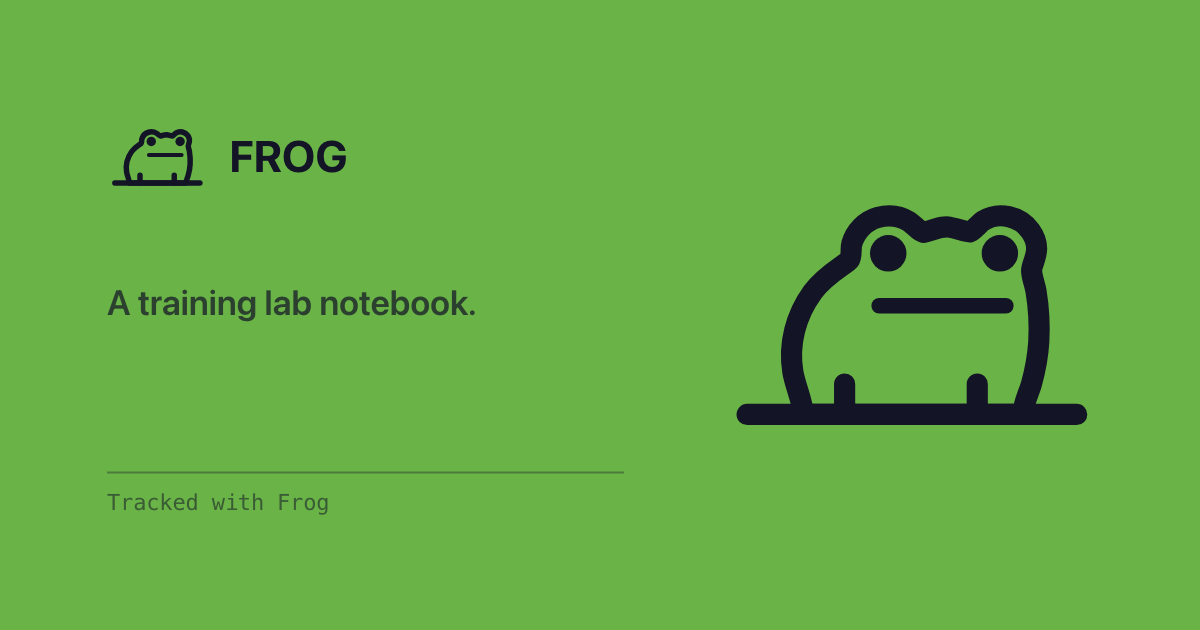
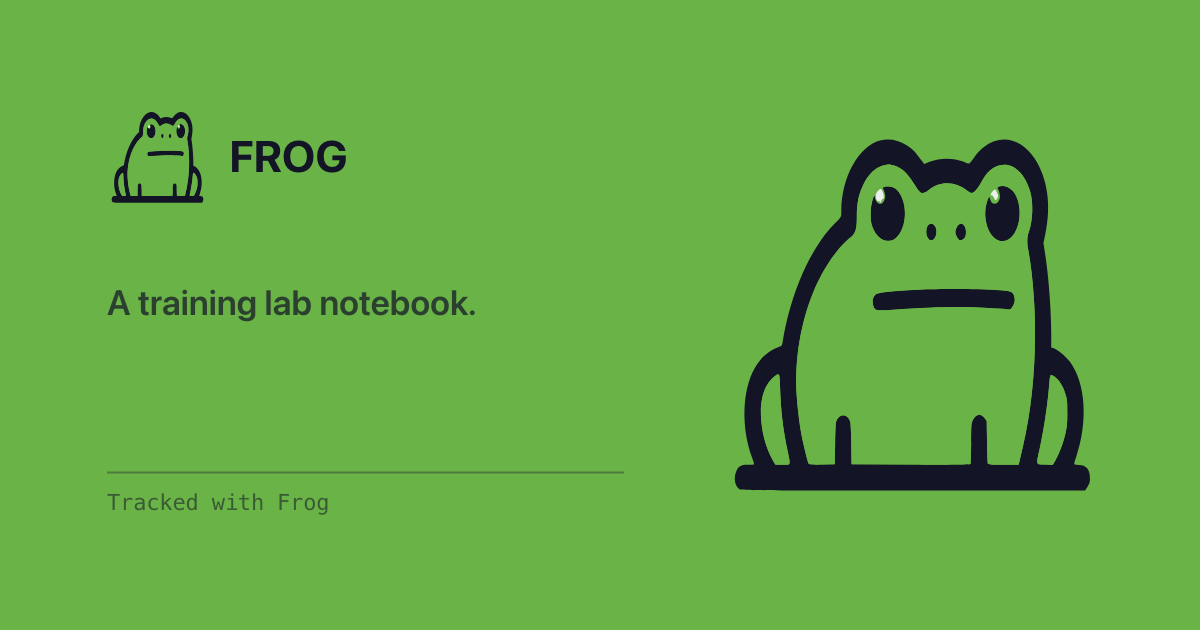
docs(brand): reconcile index.html, AGENTS.md, DECISIONS.md for the new mark
- apps/web/index.html: add the favicon-32.png old-browser <link rel=icon>
  fallback (ported from the branch); manifest.webmanifest needed no change.
- apps/web/public/og.png regenerated (bun scripts/gen-og-image.ts) since it
  rasterizes the live FrogMark component, which changed.
- AGENTS.md "Brand mark": rewritten for the new generated-icon.svg /
  potrace-vectorize-frog-mark.ts pipeline, the layer-based drift guard, and
  frog-mark.tsx's literal-geometry-reuse re-fit; drops the retired icon-cut/
  small-size-treatment material.
- docs/DECISIONS.md: new 2026-08-06 entry recording the captain's choice of
  the feat/radix-themes branch's potrace mark over main's own hand-fit
  trace, and what the port touched. Marks the 2026-07-29 (mark fidelity +
  green tile) entry SUPERSEDED for its trace/cut/small-size-treatment
  details (its green-ground-black-line-work palette call stands).

Changed region(s): [[0.6167, 0.2111, 0.925, 0.7841], [0.0925, 0.181, 0.185, 0.3317]]

diff --git a/apps/web/index.html b/apps/web/index.html
@@ -5,6 +5,7 @@
     <meta name="viewport" content="width=device-width, initial-scale=1.0" />
     <title>Frog</title>
     <link rel="icon" href="/icon.svg" type="image/svg+xml" />
+    <link rel="icon" href="/favicon-32.png" sizes="32x32" type="image/png" />
     <link rel="apple-touch-icon" href="/apple-touch-icon.png" />
     <link rel="manifest" href="/manifest.webmanifest" />
     <meta name="theme-color" content="#101211" />

diff --git a/docs/DECISIONS.md b/docs/DECISIONS.md
@@ -38,6 +38,12 @@ Terse, dated log of product/design/architecture decisions. **Rule: when a new de
 
 ## Design
 
+- **2026-08-06 (approved-branch frog mark: potrace trace, not hand-fit)** — **Captain reviewed the mark work on the stale `feat/radix-themes` branch (4 commits ahead of its 2026-07-16 branch point, otherwise 38 behind) and chose *its* mark over main's own independently-developed one** (supersedes the trace/cut/small-size-treatment details of the 2026-07-29 (mark fidelity + green tile) entry below — the green-ground-black-line-work palette call itself is unchanged). Both marks are legitimate traces of a supplied reference photo, done independently on the two branches after they diverged; the branch's is a **color-separated potrace trace** (`scripts/vectorize-frog-mark.ts`, requires the `potrace` CLI): the reference is classified into 3 flat color buckets (dark outline, green body, white eye-glint) and each traced separately, letting potrace fit clean bezier curves per layer, rather than main's least-squares cubic fit against hand-recovered stroke centrelines. Ported the asset end-state by hand, not by merging the branch (see AGENTS.md for why: 38 stale commits behind, would regress unilateral sets, the rest stopwatch, the changelog page, and more).
+  **Reference image swapped, not reused.** The branch's source lives on as `docs/brand/assets/frog-logo-reference.jpg` (added, copied verbatim from the branch) rather than main's `docs/brand/frog-source-1024.png`: that PNG is the *same* photo but flattened to exactly 3 colors as a preprocessing step for main's own retired trace, and the flatten merges the eye-highlight into the near-white background (confirmed: it has literally 3 unique RGB values, no fourth). Tracing from it silently drops the glints. `frog-source-1024.png` itself is untouched — still real provenance for the superseded entry below — just no longer the active reference.
+  **`icon.svg` and every PNG derivative are now generated output, not a hand source** — `scripts/gen-pwa-icons.ts` rebuilds `apps/web/public/icon.svg` (green `#6ab347` ground + the mark, `<g id="pad">`/`<g id="mark">`) directly from `docs/brand/assets/frog-mark.svg`, then rasterizes every PNG target from that. Main's algorithmic icon-cut (stroke-outset bbox measurement, ternary-search maskable centering, a body-crop safety assert) doesn't apply to potrace's filled, strokeless shapes, so it's replaced with straightforward center-and-pad framing: tiles scale the mark to 90% of the square on its longer axis and center it; maskable fits the mark's bounding-box diagonal inside the inner-80% safe circle (half a pixel short, for antialiasing). Added `favicon-32.png` as an old-browser `<link rel="icon">` fallback (`apps/web/index.html`) — `icon.svg` stays primary. `apps/web/public/manifest.webmanifest` needed no change.
+  **`apps/web/src/components/frog-mark.tsx` (in-app sidebar/auth mark) is re-fit to the same geometry as `icon.svg`'s mark**, not a hand-simplified redraw: same 3 filled layers (outline/body/glints), recolored `currentColor`/`var(--accent)`/a fixed light `#ECEEED` for the glints, in the mark's own `0 0 630 395` viewBox rather than main's old 24-unit box — there's no coordinate remap to get subtly wrong. This is a deliberate departure from the retired mark's philosophy ("drop fine detail below 25px, it turns to mud"): that concern was specific to *stroke* rendering going sub-pixel, and potrace's shapes are filled, not stroked, so they stay crisp at 20–32px with the full trace — verified in Chrome at both sizes, light and dark. Costs ~2.1 kB gz in the eager bundle (210.2 → 212.3 kB gz, budget 220).
+  **`scripts/check-mark-drift.ts`'s structural assumptions no longer fit the new mark** (it expected 6 named stroke paths + 6 circles + per-size stroke-width assertions, built for the retired hand-authored silhouette) **and were rewritten, not weakened**: both canonical sources (`icon.svg`, `frog-mark.tsx`) now share one shape — 3 `<g fill>` layers of `<path>`s, in document order — so the guard compares layer-by-layer path geometry plus viewBox/transform, with no stroke-width or small-size-eye assertions left to make (there's no small-size treatment to drift from). Still fails on real drift — verified by breaking a copy and confirming the script catches it. All 4 hand-copied samples in `docs/brand/frog-brand-identity.html` (app tile, 16px, in-app mark, icon-row) updated to the new geometry and markup shape; the 16px sample is now literally the same markup as the tile sample at a smaller size, since there's no separate small-size variant to show. `apps/web/public/og.png` regenerated (`bun scripts/gen-og-image.ts`) since it rasterizes the live `FrogMark` component. `apps/web/src/components/app-shell.tsx` and `apps/web/src/screens/auth.tsx` needed no changes — both already render the mark via the `FrogMark` component (main's own, unrelated evolution since the branch point), so only the component's internals changed.
+
 - **2026-07-30 (session grid shows every routine-configured set immediately, not just the one being logged)** — Bug report: start a routine with 5 sets configured on one exercise (all "6–8" reps) and the session shows exactly one editable row — "only 1 set... shows up." Confirmed end-to-end (real browser, real dev server, real local Supabase): `startRoutineSession` (`packages/core/src/repo/supabase.ts`) only ever writes `session_exercises` rows on session creation, never `set_logs` — that part is by design, not the bug (see the 2026-07-15 M2 session-slice entry, and `e2e/routines.spec.ts`'s "start routine prefills the grid" test). The actual gap: `ExerciseBlock` (`apps/web/src/screens/session.tsx`) rendered exactly one `ActiveRow`, seeded per index from the routine template as `block.committed.length` advances, with **no rendering at all for the sets that hadn't become active yet** — so a freshly started session showed "0 sets" and one input box even though 5 were configured, and the other 4 only appeared one at a time as each prior set was logged. Nothing was lost (logging through sequentially does write all 5 correctly), but the routine's own plan was invisible until you'd already stepped through it. **Fix is additive, not architectural**: a new read-only `UpcomingRow` renders `seedSets.slice(activeIndex + 1)` — the remaining routine/copy-seed targets — as muted preview rows (`upcoming-{index}[-{col}]` test ids) below the active row, so all N configured sets are on screen the instant the session starts and the list shrinks by one each time a set commits. The single-active-row **commit mechanic is unchanged** (still the only way real `set_logs` rows get written — no schema change, no eager materialization). **Rejected**: eagerly writing all N `set_logs` rows at session-creation time with a planned-vs-performed flag — a `set_logs` semantics change touching ~10+ read call sites (records/PRs, delete-cascade, session-reducer) for what reads as a purely visual gap; that's a bigger, separately-sequenced call, and it overlaps the routine-builder RIR-range/add-set-with-inherited-range revamp being scoped in parallel — noted for whoever sequences that follow-up, not bundled into this fix. e2e: new "materializes every configured set as a visible row" case added to `e2e/routines.spec.ts`.
 - **2026-07-31 (rest timer → rest stopwatch, reversing PR #11)** — **The countdown is gone: rest is now a per-block up-counting stopwatch, no target, no preset, no done-state.** This is a full reversal of PR #11 (`rest-timer-q2`, `143dd04`, logged below as "rest timer is its own control") six commits after it shipped — deliberately logged as a **new** entry rather than editing that one, so the "why we built it, then why we undid it" trail stays legible (the target/countdown model was a real, considered design with its own measurements and rationale; it wasn't wrong, the brief that drove this reversal just no longer wants a target). **What's the same:** the trigger point — a set is logged — and the drop-set suppression rule (`shouldStartRest`; a completed set whose next sibling is a drop starts nothing, since drops chain into the next reduction with no rest by definition, not an artifact of countdown math). **The trigger is NARROWED → 2026-08-04 (rest stopwatch scoped to normal working sets on rep/weight exercises), below** — drop suppression is unchanged, but it is no longer the *only* suppression. **What's different:** no target to set means `RestControl`'s popover (`REST_PRESETS`, the 3×2 grid) is gone — it's now a passive header badge that just goes accent while that block's own stopwatch is running (still useful in a superset, where more than one block can be resting at once even though the dock only shows the most recent; **which block headers render it at all is NARROWED by the 2026-08-04 entry**). **Which stopwatches survive is scoped to the superset group of whichever block just committed**: every `commitSet` first prunes `restByBlock` down to the committing block's same-superset-group siblings (two blocks are siblings only when both carry a non-null `supersetGroup` and those values are equal — two *solo* blocks are not siblings), then re-adds the committing block itself only when the start isn't drop-suppressed. So alternating within an active superset preserves each member's own stopwatch, while starting or continuing a **solo** block's stopwatch clears every other running one, including other solo blocks' — otherwise `restByBlock` accumulated one entry per exercise touched for the whole session and the dock's single **Stop** would resurface a timer you'd stopped watching an hour ago. The prune runs on *every* commit, not just the ones that start a stopwatch, so a drop-suppressed commit clears the previous exercise's stopwatch too; a **self**-suppressed drop commit therefore clears the committing block's own stopwatch rather than merely withholding a new one — "drops chain with no rest" applies uniformly to starting *and* to continuing. `RestDock` drops the drain rail, the ±15s adjust, and the accent-flood done-state — a stopwatch that never finishes has nothing to animate toward — and gets a single **Stop** button (the old dismiss/"skip rest" `X`, relabeled) in their place. **Test-id contract, superseding the frozen entry below** (which still lists these as unchanged): `rest-{name}`/`-value` and the header badge `block-{name}-rest-timer` survive; the dock's `-dismiss` is now **`-stop`**; `-plus`/`-minus` and the preset ids `block-{name}-rest-{sec|off}` are gone with the controls they named. **Removing a block is the third `restByBlock` boundary** alongside commit-prune and Stop: `removeBlock` clears the removed block's entry, and the dock picks the newest stopwatch whose block *still exists* rather than bailing to nothing on the newest — otherwise deleting a resting superset member took the dock (and its only Stop) down with it while the sibling kept running. Implementation-wise this is a straight extension of the existing per-session `RestTimer` header chip's up-counting pattern (`since` timestamp, tick every second, no target) down to per-block scope, not a new mechanism — `domain/rest-timer.ts`'s `RestTimerState` shrinks to `{ startedAt }` and `restRemainingSec`/`restDone`/`adjustRest` are deleted outright; `startRest`/`shouldStartRest` survive with their target argument dropped. **Nullable-add-don't-drop, same as always:** `routine_exercises.restSec`/`session_exercises.restSec`/`user_prefs.defaultRestSec` stay in the schema — the app just stops reading and writing them for timer purposes — and `set_logs.restSec` (the *measured* elapsed-time-since-previous-set column, written automatically on every commit regardless of any UI) is untouched; it already meant exactly what a stopwatch produces. **Removed outright, not just hidden:** Settings → Workouts' "Default rest timer" row (nothing left to configure); the volume slider + Test button (its own copy claimed to gate "rest-timer and PR blip" but no PR-blip call site has ever existed — `playRestBlip`/`useRestSoundVolume` had exactly one real caller, rest-done, which no longer exists); `supabase/functions/send-rest-push`, already flagged dead in the entry below ("nothing in the app invokes it") and now permanently so. **Kept, copy-only pass:** the Notifications section's permission-request and background-push toggle are generic browser mechanisms with no other current use, but deleting working push-subscription infrastructure wasn't asked for. Its copy now says what is actually true: with `alertRestDone` and `send-rest-push` both gone there is **no producer at all**, so "Send test" is the only notification the app can post and the push toggle only registers the device for a sender that doesn't exist yet. Generic "notifications" wording would have read as a live feature and quietly broadened the promise the deleted rest alert used to make — dormant infrastructure has to say it's dormant. `rest-timer-icon.tsx`'s pause-bar glyph is dropped (a paused-countdown motif no longer fits) but the file and its ring/crown/stem stay — a plain stopwatch mark, still distinct from lucide's own `Timer` (already meaning the *set-duration* stopwatch in this app) and `Pause` (the session pause). e2e: `e2e/rest-timer.spec.ts` rewritten — appears on commit, ticks up with no upper bound asserted, Stop dismisses it, suppressed after a set followed by a drop.
 - **2026-08-04 (rest stopwatch scoped to normal working sets on rep/weight exercises)** — Narrows the trigger from the entry above, which fired on *every* non-drop commit — including warm-ups and duration/distance exercises, with no way to turn it off. `shouldStartRest` (`domain/rest-timer.ts`) now takes the **committed** set's type and the **exercise** type alongside the next set's type, and suppresses on two more grounds: the committed set was a **warm-up** (a ramp-up set runs into the working set; that gap isn't rest you're timing), or the exercise type has no reps field — `duration`, `weight_duration`, `distance_duration`, `weight_distance` — where "resting between sets" isn't a meaningful concept for a plank or a run. The type test reuses **`supportsEffort()`** (`domain/exercise-types.ts`, = `TYPE_FIELDS[type].reps`) instead of re-deriving the field check, so "types that log effort" and "types that rest" stay one predicate rather than two that can drift. **No opt-out setting was added**: the exclusions express the requirement on their own, so 2026-07-31's removal of Settings → Workouts' "Default rest timer" row stands — there is still nothing to configure. `RestControl` is rendered only when `supportsEffort(type)` (`session.tsx`), so a duration/distance block carries **no `block-{name}-rest-timer` badge at all** rather than one that could never light up. Everything else is untouched: the superset prune, the drop rule, `set_logs.rest_sec` measurement (still written on every commit regardless of whether a stopwatch ran), and every test id. Unit tests live in `domain/plates.test.ts` (the existing home for this domain's tests); e2e: two cases added to `e2e/rest-timer.spec.ts` — a warm-up commit starts nothing while the working set after it does, and a duration exercise both suppresses the stopwatch and hides the badge.
@@ -49,7 +55,7 @@ Terse, dated log of product/design/architecture decisions. **Rule: when a new de
   **Consistency-card floating-text bug**: `components/streak-card.tsx` rendered the weeks number/label and the rest-days text as two flex siblings in a `justify-between` row, vertically centered against each other independently — fine at the card's full width (Home, Calendar), but at Profile's half-width (`grid-cols-2`) the rest-days span visually detached from "week" instead of reading as one phrase. Fixed by folding rest-days into the same `flex flex-wrap items-baseline` paragraph as the weeks number, so it wraps inline under load instead of floating as a separate box — one component, so the fix applies everywhere it's used.
   **Share card redesign** (`components/share-card.tsx`) — **SUPERSEDED → 2026-07-30 (share system redesign)**: the single-template/dark-light-transparent architecture below is replaced by six typed card kinds across four frames and four grounds; the token-sampling technique, the mark-rasterization technique, and `frog-tagline.ts` all carry forward into the new files (the tagline's tone bank widened — see that entry). Captain flagged it for marketing use, so treated as a real deliverable, not a placeholder. Colors are no longer a hand-picked hex palette (which had drifted from the real tokens — e.g. dark hairline was `#2e3130` against the actual `--sage-6` dark of `#373b39`); they're sampled at render time from the live Radix scales via a detached, temporarily `.light`/`.dark`-classed DOM node (Radix's scale CSS keys off a flat class, not `:root`, so this resolves the *requested* variant's tokens regardless of the page's current theme). The brand mark is drawn from the **same `FrogMark` component** the rest of the app uses — never another hand-copy of its path geometry (AGENTS.md "Brand mark" tracks the copies that do exist) — by mounting it into a detached host via `react-dom/client` + `flushSync`, reading the committed `<svg>` back with the native `XMLSerializer`, and rasterizing that into an `<img>` for `drawImage`. First cut used `react-dom/server`'s `renderToStaticMarkup` instead, which is the more obvious API for "component → string" — but it added **~61 kB gz** to the (lazy) share-card chunk, since `react-dom/server` duplicates a large slice of react-dom's rendering logic instead of reusing the client renderer already loaded for the whole app; the `createRoot`+`flushSync` route reuses code already paid for and the chunk landed *smaller* than before the mark was added (3.62 kB gz vs. the old 5.87 kB text-only version). Stat values render in the same mono stack as the app's `.num` utility (`ui-monospace`/`SF Mono`/`Berkeley Mono`) since canvas text can't apply `font-variant-numeric: tabular-nums` — a fixed-width family gets the same aligned-digits result. **Frog-sass tagline**: `lib/frog-tagline.ts`, a template × word-bank generator (4 sentence templates × ~7 adjectives × 8 nouns ≈ 250+ combinations from ~70 lines) rather than hand-authoring variants, picked with one `Math.random()` per share (cosmetic caption, no rigor needed). Tone (`strong` vs `normal` adjective bank) keys off the one session-quality signal that already exists in the data — whether a PR landed this session (`post-save-summary.tsx`'s `prLines`) — rather than inventing a new "workout quality" score just for a caption; sessions without a PR get the everyday bank, not a fabricated "rough" one, since no honest negative signal exists yet.
   *`data/backlog.md` (referenced in the brief for prior art `og-image-p6`/`frog-icons-m2`/`frog-fidelity-n6`) does not exist anywhere in this repo's history — the redesign above was done from AGENTS.md, this file, and the current share-card/frog-mark code directly.*
-- **2026-07-29 (mark fidelity + green tile)** — **The mark is now a *trace* of the supplied art, on a green ground with black line work** (supersedes the “redrawn as hand-authored vector, never traced” and the palette clauses of the 2026-07-28 mark entry below; the icon cut above is unchanged). Two captain calls. **(1) Fidelity.** The hand-authored redraw had drifted from the art we were given — wrong eye size and placement, no glints, a symmetric silhouette where the source is visibly not. The mark is now fitted to the bitmap instead of drawn by eye: the reference lives in the repo as `docs/brand/frog-source-1024.png` (the supplied PNG flattened to its three colours — the flatten touches the JPEG-noise background only, 99.9% of pixels keep their class), stroke centrelines are recovered by eroding the silhouette half a stroke width, and the outline is least-squares cubic-fitted to those centrelines (body 16 segments, each haunch 5). Rendered back over the reference at its own scale, **silhouette IoU 0.991, line-work IoU 0.946** — residual is a 1–2 px antialiasing fringe. Recovered facts the redraw missed: the head bulges into a **hump over each eye** with a low crown between them; eyes are r 27.5 at (248, 76)/(433, 76) with a **light glint** up-left of each centre; the face sits ~50 units **right** of the body's own centre (the source is asymmetric — kept, not “corrected”); stroke weights are 26 (outline, haunches, feet, ground bar) and 19 (mouth), so the feet no longer carry their own weight. Art space is now 572 × 355.5, 1:1 with the reference bitmap's pixels, which moves the derived cut from 471 to **469.1** and `#pad` to `translate(-58.4 96.7)`; fill is unchanged at **100% / 76%** and the maskable still clears the safe circle (202.9 px against 204.8). **(2) Green ground, black frog.** The tile inverts: ground **`#6AB347`**, line work **`#131426`** — both sampled out of the reference, so “black outline” and “copy my image exactly” are the same value. True `#000000` buys 8.1:1 contrast against 7.1:1 and was rejected as not worth leaving the source palette. The body carries the **same green as the ground** (the ask was “just a black outline of the frog”), so the tile is line art and only the outline separates body from field; a body in a slightly distinct green was shown as an alternative and not shipped. **The manifest stays on lab ink `#101211`** for `background_color`/`theme_color`: those paint the PWA splash and the browser chrome, which belong to the app shell — turning them green would restyle the app, and a green tile on a lab-ink splash is the same accent-on-ink relationship the app already has. **The small-size treatment needed a new rule.** With the polarity flipped, the eyes are dark under a brow that is also dark, so thickening the outline below 25px simply swallows them — verified at 16/20/24px, a dark eye is invisible at every weight tried. Under 25px the **eye collapses to its glint**: light `#ECEEED`, r 26, dropped to cy 84, clear of the brow. Stroke goes to 36/26 (was 40/36/26). **The in-app mark (`frog-mark.tsx`) is the same body path**, mapped into the 24-unit box by ×0.0370879 and centred, still `currentColor` + `var(--accent)` so it survives both themes — it is the one place the mark is *not* the tile's fixed black-on-green. Its strokes drop 1.75 → **1.3/0.95**: at 1.75 the eye humps close over the eyes and the crown between them fills in, which the old blunter silhouette tolerated and this one does not. Eager JS 208.0 → **208.2 kB gz** (budget 220) — the traced body path is 16 cubics against the old 5 arcs.
+- **2026-07-29 (mark fidelity + green tile)** — **SUPERSEDED → 2026-08-06 (approved-branch frog mark), above** — the hand-fit trace-and-cubic-fit methodology, the `docs/brand/frog-source-1024.png` reference, the algorithmic icon-cut window, and the small-size stroke treatment described below are all replaced by a color-separated potrace trace of a different reference image; the green-ground-black-line-work palette call carries forward unchanged (the new mark samples the same convention off its own reference). Kept unedited below for the why-built trail. **The mark is now a *trace* of the supplied art, on a green ground with black line work** (supersedes the “redrawn as hand-authored vector, never traced” and the palette clauses of the 2026-07-28 mark entry below; the icon cut above is unchanged). Two captain calls. **(1) Fidelity.** The hand-authored redraw had drifted from the art we were given — wrong eye size and placement, no glints, a symmetric silhouette where the source is visibly not. The mark is now fitted to the bitmap instead of drawn by eye: the reference lives in the repo as `docs/brand/frog-source-1024.png` (the supplied PNG flattened to its three colours — the flatten touches the JPEG-noise background only, 99.9% of pixels keep their class), stroke centrelines are recovered by eroding the silhouette half a stroke width, and the outline is least-squares cubic-fitted to those centrelines (body 16 segments, each haunch 5). Rendered back over the reference at its own scale, **silhouette IoU 0.991, line-work IoU 0.946** — residual is a 1–2 px antialiasing fringe. Recovered facts the redraw missed: the head bulges into a **hump over each eye** with a low crown between them; eyes are r 27.5 at (248, 76)/(433, 76) with a **light glint** up-left of each centre; the face sits ~50 units **right** of the body's own centre (the source is asymmetric — kept, not “corrected”); stroke weights are 26 (outline, haunches, feet, ground bar) and 19 (mouth), so the feet no longer carry their own weight. Art space is now 572 × 355.5, 1:1 with the reference bitmap's pixels, which moves the derived cut from 471 to **469.1** and `#pad` to `translate(-58.4 96.7)`; fill is unchanged at **100% / 76%** and the maskable still clears the safe circle (202.9 px against 204.8). **(2) Green ground, black frog.** The tile inverts: ground **`#6AB347`**, line work **`#131426`** — both sampled out of the reference, so “black outline” and “copy my image exactly” are the same value. True `#000000` buys 8.1:1 contrast against 7.1:1 and was rejected as not worth leaving the source palette. The body carries the **same green as the ground** (the ask was “just a black outline of the frog”), so the tile is line art and only the outline separates body from field; a body in a slightly distinct green was shown as an alternative and not shipped. **The manifest stays on lab ink `#101211`** for `background_color`/`theme_color`: those paint the PWA splash and the browser chrome, which belong to the app shell — turning them green would restyle the app, and a green tile on a lab-ink splash is the same accent-on-ink relationship the app already has. **The small-size treatment needed a new rule.** With the polarity flipped, the eyes are dark under a brow that is also dark, so thickening the outline below 25px simply swallows them — verified at 16/20/24px, a dark eye is invisible at every weight tried. Under 25px the **eye collapses to its glint**: light `#ECEEED`, r 26, dropped to cy 84, clear of the brow. Stroke goes to 36/26 (was 40/36/26). **The in-app mark (`frog-mark.tsx`) is the same body path**, mapped into the 24-unit box by ×0.0370879 and centred, still `currentColor` + `var(--accent)` so it survives both themes — it is the one place the mark is *not* the tile's fixed black-on-green. Its strokes drop 1.75 → **1.3/0.95**: at 1.75 the eye humps close over the eyes and the crown between them fills in, which the old blunter silhouette tolerated and this one does not. Eager JS 208.0 → **208.2 kB gz** (budget 220) — the traced body path is 16 cubics against the old 5 arcs.
 - **2026-07-28 (icon cut)** — **The app tiles ship an icon cut of the mark, not the whole mark** (supersedes the padding clause of the mark entry below). On a real iOS home screen the frog occupied a patch in the middle of the tile: measured, the mark was 80% wide but only **50% tall**, with top/bottom margins ~2.5× the sides. That is inherent — the mark is **1.6:1** (573 × 357), so scaling the whole thing up cannot fix it, and distorting it is not an option. An app-icon crop is routinely tighter than the full brand mark, so `apple-touch-icon` / `icon-192` / `icon-512` (and `icon.svg` itself, so the favicon and the manifest's SVG icon match) now render a **471-unit square window on the head + body**, bottom-anchored: the body — the one part that must never be cropped — fills **93%** of the tile width, the haunches, feet and **ground bar run off the left and right edges**, and the bar sits 3.5% above the bottom edge. Measured after: **100% / 76%** (100% because the bar bleeds by design). A bleeding ground line reads deliberate; a floating one reads like a mistake. **The maskable is the exception and keeps the whole mark** — platforms crop it to an arbitrary shape and only the inner-80% circle is guaranteed, so nothing may bleed. It is scaled until its farthest painted point lands on that circle (walked off the real outlines, not the bounding box, whose corners are empty): **71% / 44%**, up from 65.6% / 41%, with the mark lifted 3% of the tile because the ground bar's end caps are what actually reach furthest. Lifting it all the way to the minimal-enclosing-circle centre would reach 78% but floats the frog 13% high, which a launcher showing a near-full square reads as top-heavy. Farthest painted pixel measures 203.5 px against the 204.8 px safe radius (`SAFE_R` is 0.396, not 0.4, so antialiasing on the outermost stroke can't rasterise past the boundary). **Both windows are derived, not hand-copied**: `scripts/gen-pwa-icons.ts` measures the mark's boxes off the live SVG (`#body` is tagged for exactly this) and computes the cut, so editing the frog moves the cut with it — and it **asserts** `icon.svg`'s own `viewBox`/`#pad` translate still match, printing the replacements if they don't, because those are the last hand-authored framing numbers. It imports `@playwright/test` rather than `playwright`, which is not a declared dependency and does not resolve.
 - **2026-07-28** — **The frog-eye mark is retired for a literal frog mark** (`docs/brand/frog-brand-identity.html` → "The mark"). A frog seen head-on sitting on a ground line: rounded body, two eye humps, dot eyes, nostrils, a flat mouth, front feet, haunches. **Redrawn as hand-authored vector, never traced** — the supplied raster is RGB with *no* alpha and a JPEG-noise background, so keying it leaves speckle in the field and a halo on the outline. `apps/web/public/icon.svg` is the single source of the shipped geometry; every PNG in `apps/web/public/` is rendered from it by `bun scripts/gen-pwa-icons.ts` (never hand-edit them). Drawn in the brand palette — grass `#46A758` + ink `#101211` — **not** the source art's off-palette `#6AB347`/`#131426`. **The tile ships on the lab-ink ground `#101211`**, matching the manifest's existing `background_color`/`theme_color` so it doesn't clash inside the dark shell; on that ground the line work inverts to sage `#ECEEED` and the eye glints go dark — ground and line work move together, flipping one alone makes the frog a floating blob. ~~Padding is per target: ~9% margin on `icon.svg` and `icon-192/512`; 10% on `apple-touch-icon`; 65.6% of the tile on the maskable~~ **SUPERSEDED → 2026-07-28 (icon cut)** — centring the whole 1.6:1 mark is what made it read as floating. Still true: `apple-touch-icon` is exactly 180×180 and fully opaque with **no** baked corner radius (iOS discards alpha, composites on black, and rounds its own corners). `icon.svg` carries an `@media (max-width: 24px)` **small-size treatment** — below 25px the 27-unit outline falls under a pixel and the fine detail hazes over, so it drops the nostrils and glints and thickens every stroke (~~and scales 1.17 to spend the margin on the frog~~ — the icon cut spends it, so the scale is gone); verified in Chrome, and renderers that ignore it fall back to the full mark. The in-app mark is a **separate simplified cut**, `apps/web/src/components/frog-mark.tsx` — no haunches/nostrils/glints, and it keeps `currentColor` + `var(--accent)` rather than fixed hex so it survives both themes; it stays inline vector for the 220 kB gz budget.
 - **2026-07-16** — **Frog re-skin + rebrand (`docs/brand/frog-brand-identity.html`).** `APP_NAME` = **"Frog"** (single-source mechanism kept; ~~technical identifiers `@sbl/*` / `SBL_TOKEN` deliberately unchanged — renaming them is an API break with no user-facing value~~ **SUPERSEDED → 2026-07-28 (identifier layer renamed)**). Theme props: `<Theme accentColor="grass" grayColor="sage" radius="none">` — green-cool lab-ink neutrals + one frog-green accent that **doubles as semantic success** (`--pos` = `grass-11`; `green.css` dropped → 5 scales: sage/grass/red/amber/orange). Radius restored to **0px** (deliberate reversal of the 2026-07-15 `small` call — brutalist 0px is load-bearing for the lab/terminal soul; circles only for avatars ~~+ the frog-eye mark~~ **SUPERSEDED → 2026-07-28 (literal frog mark)**; fallback if mobile tap-feel regresses: `small` on interactive controls only). **The split rule** governs all copy/mascot use: the closer to the data the more serious (logging hot path, charts, findings statistics/confidence/caveat = sacred, never goofy); the closer to the edges the more the frog (empty states, loading, toasts, errors, PR banners, streaks, notifications, 404, settings corners). **Language registers Human/Frog/Ultrafrog** (`apps/web/src/lib/voice.ts`: `useVoice().t(human, frog)` in components, `voice()` outside render; localStorage `voiceRegister`, default `frog`): a pure render-time text transform — changes how the app *talks*, never what it *reports*; `ultra` ribbits every word but preserves digit-bearing tokens + a unit whitelist; Human is the accessibility escape hatch and future i18n seam. New catch-all 404 route (`screens/not-found.tsx`). ~~Frog-eye mark (circle + eyelid arc + grass pupil) in the shell brand slot + `icon.svg`~~ **SUPERSEDED → 2026-07-28 (literal frog mark)**; PWA manifest + `theme-color` → `#101211` (sage-1 dark).

diff --git a/AGENTS.md b/AGENTS.md
@@ -85,7 +85,7 @@ Local Supabase is the default for all dev and tests; the hosted project exists o
 
 **Frog** (see `docs/brand/frog-brand-identity.html` — the brand spec — and `docs/DECISIONS.md` 2026-07-16): a Radix Themes 3 re-skin. `<Theme accentColor="grass" grayColor="sage" radius="none">` in `app.tsx` is the single source of look-and-feel; `apps/web/src/styles/theme.css` bridges legacy Tailwind tokens onto the Radix scales. Green-cool lab-ink neutrals (sage), one frog-green accent (grass) that **doubles as semantic success**; red/amber survive as small text/icons only (never large fills). **0 px border radius** (square/brutalist; circles only for avatars and inside the frog mark). Crisp 1 px low-contrast borders, flat surfaces (shadows only on floating layers). **The split rule:** the closer to the data the more serious — logging hot path, charts, findings statistics are sacred and never goofy; the frog voice lives only at the edges (empty states, loading, toasts, errors, PR banners, 404, settings corners). Copy in playground zones routes through the language registers (`apps/web/src/lib/voice.ts`: Human / Frog / Ultrafrog — a render-time text transform that never changes what is reported). Keyboard-first: ⌘K command palette, single-key shortcuts on the logging path. All numeric data (weights, reps, e1RM, timers) uses tabular numerals (`.num` utility) and is never inside a joke. Micro-interactions are 100–150 ms CSS transitions; nothing animates on the data path.
 
-**Brand mark.** `apps/web/public/icon.svg` is the single source for the shipped assets: every PNG in `apps/web/public/` is a render of it via `bun scripts/gen-pwa-icons.ts` (re-run after any edit; never hand-edit a PNG). **The vector is a trace of the supplied art**, kept in the repo as `docs/brand/frog-source-1024.png` — the geometry was fitted to that bitmap, not drawn by eye, because an earlier hand-authored redraw drifted from what we were given. If the mark changes, re-fit against the reference and check the render over it; don't nudge control points. Its geometry is **hand-copied in four places**, all in the brand spec — the app-tile sample, the 16px sample, the standalone in-app-mark sample, and the icon-row copy — and `bun scripts/check-mark-drift.ts` (wired into CI) asserts those four still match the source each was copied from: `icon.svg` for the tile/16px pair, `apps/web/src/components/frog-mark.tsx` for the in-app-mark pair. **The guard stops there — it does not verify `frog-mark.tsx` itself**, which is a hand-fitted simplification of `icon.svg` (body path re-mapped into a 24-unit box, haunches/nostrils/glints dropped), so its numbers legitimately differ and no script can check that hop: change `icon.svg` and you must still re-map `frog-mark.tsx` by hand, then re-run the guard. **The tiles show an *icon cut*, not the whole mark** — a square window on the head + body with the haunches, feet and ground bar bleeding off the sides, because the mark is 1.6:1 and centring all of it leaves the frog floating (see `docs/DECISIONS.md` → "icon cut"). The generator derives that window from the mark's measured geometry, so it follows the frog; it also asserts `icon.svg`'s own `viewBox` and `#pad` translate still match, and prints the replacements if they don't — that assert firing is the expected way to learn the cut moved. The tile is **black line work `#131426` on the source art's grass green `#6AB347`**, body the same green as the ground — **ground and line work move together**; flipping one alone breaks the mark (`GROUND` in the generator must match the `#ground` fill in `icon.svg`). Below 25px `icon.svg` swaps in a small-size treatment, including light eyes — a dark eye under a dark brow is invisible at that size. The in-app mark is a separate simplified cut and must stay `currentColor` + `var(--accent)` so it survives both themes (never the tile's fixed colours), and must stay vector for the 220 kB bundle gate. Sizing and padding rules are in the brand spec's "The mark" section. **Needing the mark as a raster (canvas, `<img>`) is not license for another hand-copy**: `apps/web/src/lib/share/mark.tsx` rasterizes the live `FrogMark` component — mount into a detached host via `react-dom/client` + `flushSync`, serialize the committed `<svg>` with `XMLSerializer`, `drawImage` it — rather than duplicating path data again. Don't reach for `react-dom/server`'s `renderToStaticMarkup` for this: it added ~61 kB gz to that lazy chunk (it re-implements a chunk of react-dom instead of reusing the client renderer already loaded), against a few hundred bytes for the `createRoot`+`flushSync` route.
+**Brand mark.** `apps/web/public/icon.svg` and every PNG in `apps/web/public/` are **generated output**, not a hand source (see `docs/DECISIONS.md` 2026-08-06) — `bun scripts/gen-pwa-icons.ts` builds `icon.svg` (green `#6ab347` ground + the mark) from `docs/brand/assets/frog-mark.svg`, then rasterizes every PNG target from that; never hand-edit either. `frog-mark.svg` is itself generated by `bun scripts/vectorize-frog-mark.ts` (requires the `potrace` CLI, `brew install potrace`) from `docs/brand/assets/frog-logo-reference.jpg`, the supplied reference art — a **color-separated potrace trace**: the reference is classified into 3 flat color buckets (dark outline, green body, white eye-glint) and each traced separately into clean bezier curves, not drawn or fitted by eye. If the reference art changes, re-run both scripts in order; if you only touched `frog-mark.svg` by hand (you shouldn't), re-run just `gen-pwa-icons.ts`. Its geometry is **hand-copied in four places**, all in the brand spec — the app-tile sample, the 16px sample, the standalone in-app-mark sample, and the icon-row copy — and `bun scripts/check-mark-drift.ts` (wired into CI) asserts those four still match the source each was copied from: `icon.svg` for the tile/16px pair, `apps/web/src/components/frog-mark.tsx` for the in-app-mark pair. Both canonical sources share one shape: 3 `<g fill>` layers (outline/body/glints) of `<path>`s, in document order — the guard compares layer-by-layer. **The guard stops there — it does not verify `frog-mark.tsx` itself**: it re-fits the mark into the app's theme (`currentColor` outline/eyes/mouth, `var(--accent)` body, a fixed light `#ECEEED` for the glints — never the tile's fixed colours, since a hardcoded dark outline vanishes on the dark sage surface) and its own viewBox, so its numbers legitimately differ from `icon.svg`'s and no script can check that hop: change `icon.svg`'s mark and you must still re-map `frog-mark.tsx` by hand (currently a literal reuse of the same path geometry, just recolored — no coordinate remap, unlike the retired mark's 24-unit-box simplification), then re-run the guard and check the render at 20–32px in both themes. There is **no icon-cut or small-size stroke treatment** on the current mark (that machinery, and the `docs/brand/frog-source-1024.png` reference it measured against, belonged to the retired hand-authored trace) — potrace's shapes are filled, not stroked, so they don't go sub-pixel at small sizes; tiles just center the mark at 90% fill with breathing room on the shorter axis, and the maskable target fits the mark's bounding-box diagonal inside the inner-80% safe circle. **Needing the mark as a raster (canvas, `<img>`) is not license for another hand-copy**: `apps/web/src/lib/share/mark.tsx` rasterizes the live `FrogMark` component — mount into a detached host via `react-dom/client` + `flushSync`, serialize the committed `<svg>` with `XMLSerializer`, `drawImage` it — rather than duplicating path data again. Don't reach for `react-dom/server`'s `renderToStaticMarkup` for this: it added ~61 kB gz to that lazy chunk (it re-implements a chunk of react-dom instead of reusing the client renderer already loaded), against a few hundred bytes for the `createRoot`+`flushSync` route.
 
 **Share cards.** Six typed card kinds (`packages/core/src/share/types.ts`), one canvas layout engine, four frames (Story/Post/Square/OG), four grounds (Dark/Light/Photo/Green) — see `docs/share-cards.md` for the full shape (card kinds, frames, grounds, hero-selection rules, typography, footer/OG handling, surfaces, test IDs). Card data assembly is pure and lives in `packages/core/src/share/builders.ts` (unit-tested, no React/DOM); canvas painting lives in `apps/web/src/lib/share/` (`paint.ts`/`frames.ts`/`grounds.ts`/`graphics.ts`); the mobile UI is `components/share-sheet.tsx`. The body heat-map path geometry is the one copy in `components/charts/body-paths.ts` — both the interactive SVG and the canvas painter draw from it; don't add a third copy. The static OG image (`apps/web/public/og.png`) is generated by `scripts/gen-og-image.ts`, which drives the real painter through a throwaway Vite dev server + `apps/web/og-harness.html`/`src/og-harness.tsx` (not part of the shipped app) since it needs the real `FrogMark` component, not raw SVG like `gen-pwa-icons.ts`; re-run it after any painter/brand change, and run it with `--check` (no browser) to verify the OG meta in `index.html` hasn't drifted from `APP_NAME`.
 
